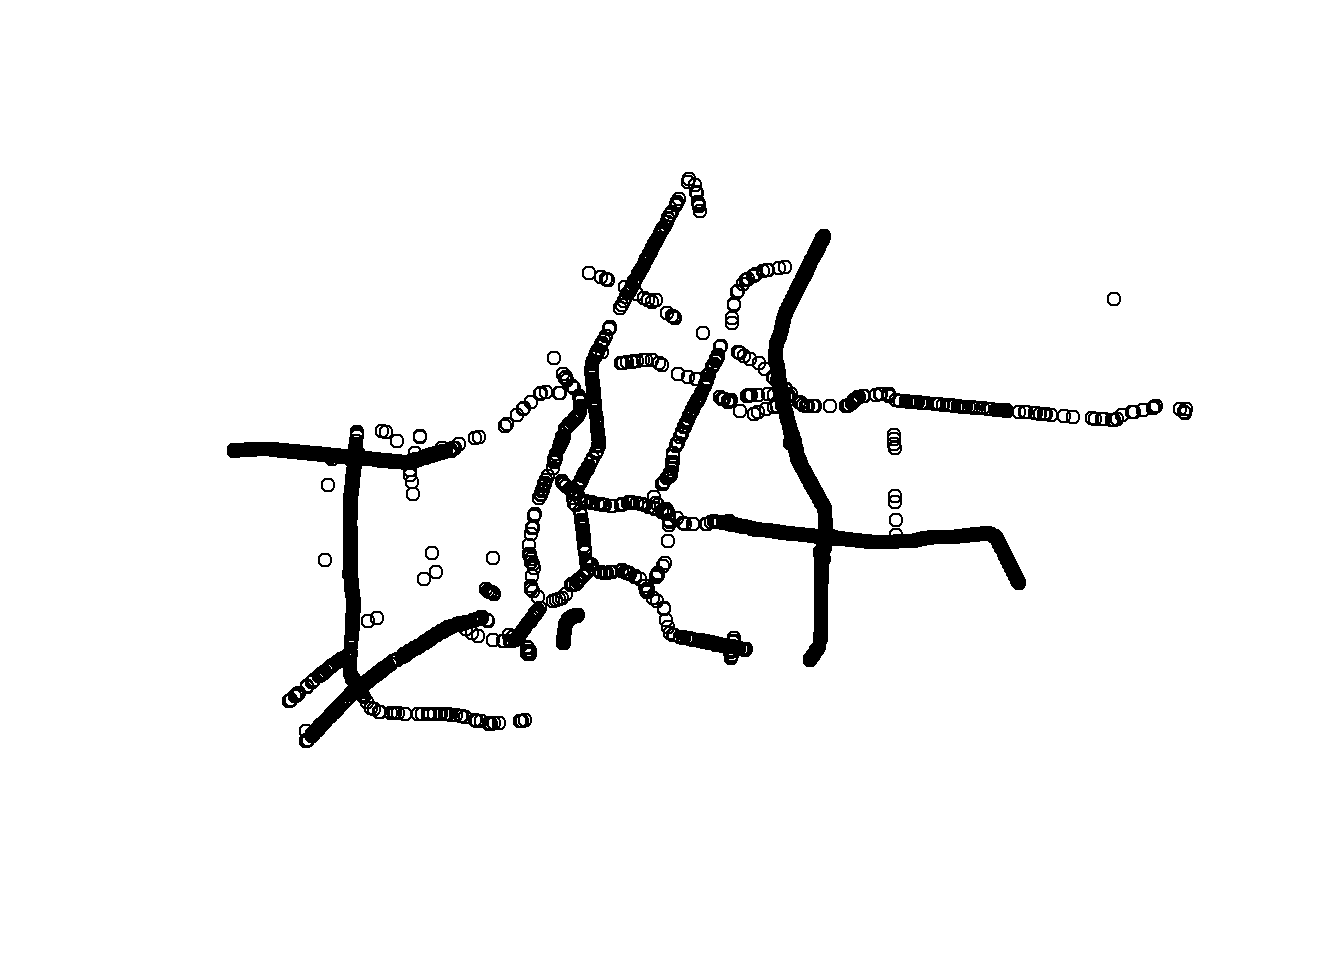
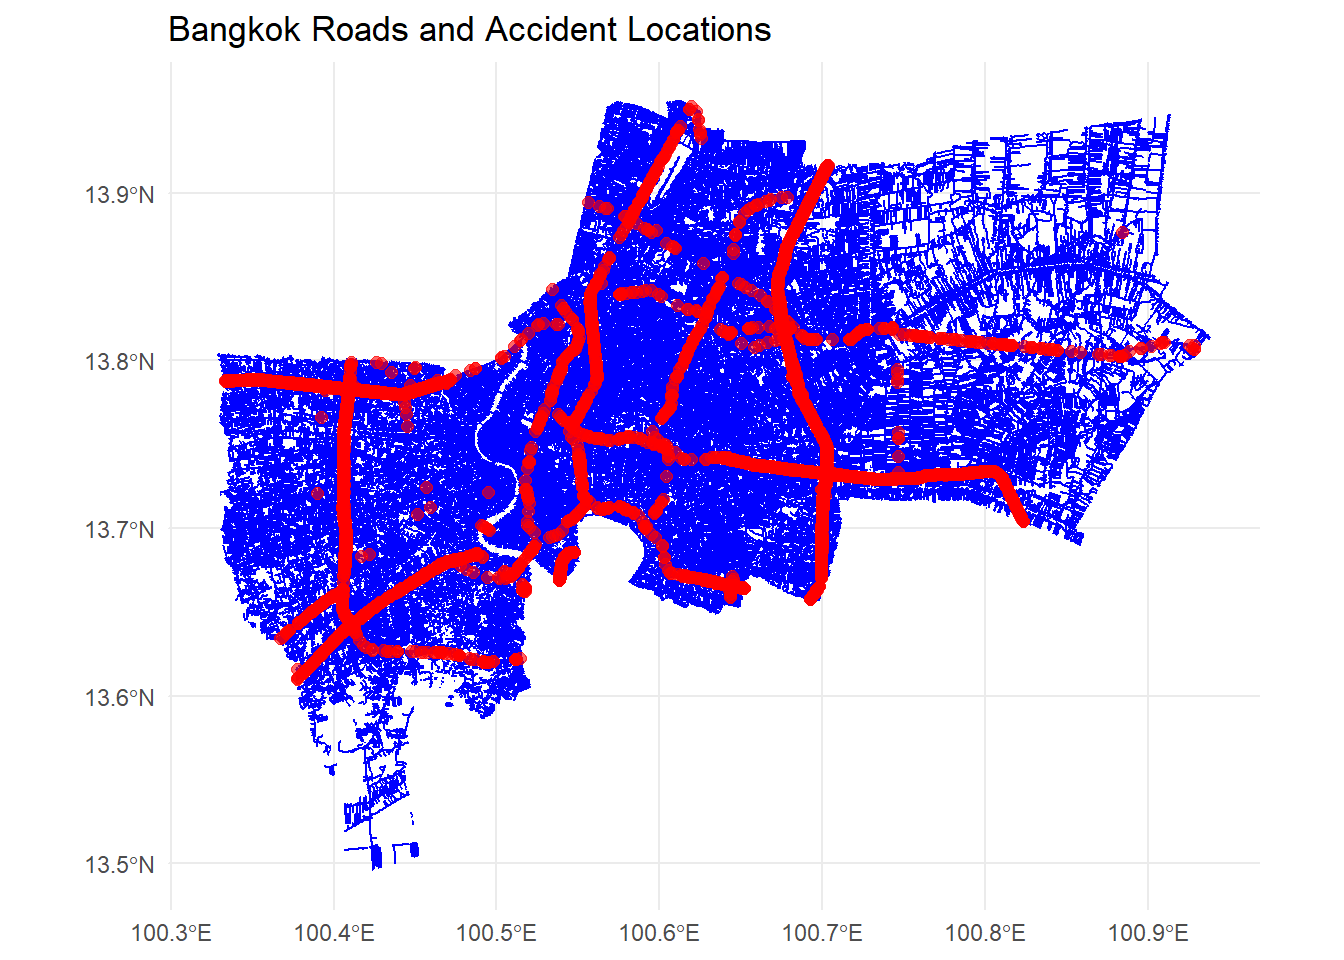
regular commit

diff --git a/_site/Take-Home_Ex/Take-Home_Ex01/Take-Home_Ex01.html b/_site/Take-Home_Ex/Take-Home_Ex01/Take-Home_Ex01.html
@@ -355,85 +355,106 @@ First 10 features:
 </div>
 </div>
 <div class="cell">
-<div class="sourceCode cell-code" id="cb13"><pre class="sourceCode r code-with-copy"><code class="sourceCode r"><span id="cb13-1"><a href="#cb13-1" aria-hidden="true" tabindex="-1"></a><span class="fu">st_crs</span>(thai_one_map)</span></code><button title="Copy to Clipboard" class="code-copy-button"><i class="bi"></i></button></pre></div>
+<div class="sourceCode cell-code" id="cb13"><pre class="sourceCode r code-with-copy"><code class="sourceCode r"><span id="cb13-1"><a href="#cb13-1" aria-hidden="true" tabindex="-1"></a>admin_boundaries <span class="ot">&lt;-</span> <span class="fu">st_read</span>(<span class="at">dsn =</span> <span class="st">"data/rawdata"</span>,</span>
+<span id="cb13-2"><a href="#cb13-2" aria-hidden="true" tabindex="-1"></a>                        <span class="at">layer =</span> <span class="st">"tha_admbnda_adm1_rtsd_20220121"</span>)</span></code><button title="Copy to Clipboard" class="code-copy-button"><i class="bi"></i></button></pre></div>
 <div class="cell-output cell-output-stdout">
-<pre><code>Coordinate Reference System: NA</code></pre>
-</div>
-<div class="sourceCode cell-code" id="cb15"><pre class="sourceCode r code-with-copy"><code class="sourceCode r"><span id="cb15-1"><a href="#cb15-1" aria-hidden="true" tabindex="-1"></a><span class="co"># 设置 CRS 为 WGS 84 (EPSG:4326)</span></span>
-<span id="cb15-2"><a href="#cb15-2" aria-hidden="true" tabindex="-1"></a><span class="fu">st_crs</span>(thai_one_map) <span class="ot">&lt;-</span> <span class="dv">4326</span></span></code><button title="Copy to Clipboard" class="code-copy-button"><i class="bi"></i></button></pre></div>
-</div>
-<div class="cell">
-<div class="sourceCode cell-code" id="cb16"><pre class="sourceCode r code-with-copy"><code class="sourceCode r"><span id="cb16-1"><a href="#cb16-1" aria-hidden="true" tabindex="-1"></a><span class="co"># 将道路数据的 CRS 转换为与事故数据相同的 CRS</span></span>
-<span id="cb16-2"><a href="#cb16-2" aria-hidden="true" tabindex="-1"></a>thai_one_map <span class="ot">&lt;-</span> <span class="fu">st_transform</span>(thai_one_map, <span class="fu">st_crs</span>(bangkok_acc_data))</span>
-<span id="cb16-3"><a href="#cb16-3" aria-hidden="true" tabindex="-1"></a></span>
-<span id="cb16-4"><a href="#cb16-4" aria-hidden="true" tabindex="-1"></a>matched_with_roads <span class="ot">&lt;-</span> <span class="fu">st_join</span>(bangkok_acc_data, thai_one_map, <span class="at">join =</span> st_nearest_feature)</span></code><button title="Copy to Clipboard" class="code-copy-button"><i class="bi"></i></button></pre></div>
-</div>
-<div class="cell">
-<div class="sourceCode cell-code" id="cb17"><pre class="sourceCode r code-with-copy"><code class="sourceCode r"><span id="cb17-1"><a href="#cb17-1" aria-hidden="true" tabindex="-1"></a><span class="fu">head</span>(matched_with_roads)</span></code><button title="Copy to Clipboard" class="code-copy-button"><i class="bi"></i></button></pre></div>
-<div class="cell-output cell-output-stdout">
-<pre><code>Simple feature collection with 6 features and 33 fields
-Geometry type: POINT
-Dimension:     XY
-Bounding box:  xmin: 645371.9 ymin: 1506578 xmax: 684102 ymax: 1525144
-Projected CRS: WGS 84 / UTM zone 47N
-# A tibble: 6 × 34
-  acc_code incident_datetime   report_datetime     province_th  province_en
-     &lt;dbl&gt; &lt;dttm&gt;              &lt;dttm&gt;              &lt;chr&gt;        &lt;chr&gt;      
-1   629691 2019-01-01 03:05:00 2019-01-01 03:05:00 กรุงเทพมหานคร Bangkok    
-2   629689 2019-01-01 05:42:00 2019-01-01 05:42:00 กรุงเทพมหานคร Bangkok    
-3   604307 2019-01-01 10:10:00 2019-03-06 10:49:00 กรุงเทพมหานคร Bangkok    
-4  3793736 2019-01-01 17:30:00 2020-03-11 13:15:00 กรุงเทพมหานคร Bangkok    
-5   599070 2019-01-01 19:20:00 2019-01-01 20:57:00 กรุงเทพมหานคร Bangkok    
-6   613605 2019-01-01 21:40:00 2019-11-18 10:57:00 กรุงเทพมหานคร Bangkok    
-# ℹ 29 more variables: agency &lt;chr&gt;, route &lt;chr&gt;, vehicle_type &lt;chr&gt;,
-#   presumed_cause &lt;chr&gt;, accident_type &lt;chr&gt;,
-#   number_of_vehicles_involved &lt;dbl&gt;, number_of_fatalities &lt;dbl&gt;,
-#   number_of_injuries &lt;dbl&gt;, weather_condition &lt;chr&gt;, road_description &lt;chr&gt;,
-#   slope_description &lt;chr&gt;, Month_num &lt;dbl&gt;, Month_fac &lt;ord&gt;, dayofweek &lt;chr&gt;,
-#   geometry &lt;POINT [m]&gt;, name &lt;chr&gt;, name_en &lt;chr&gt;, highway &lt;chr&gt;,
-#   surface &lt;chr&gt;, smoothness &lt;chr&gt;, width &lt;chr&gt;, lanes &lt;chr&gt;, oneway &lt;chr&gt;, …</code></pre>
-</div>
-</div>
-<div class="cell">
-<div class="sourceCode cell-code" id="cb19"><pre class="sourceCode r code-with-copy"><code class="sourceCode r"><span id="cb19-1"><a href="#cb19-1" aria-hidden="true" tabindex="-1"></a><span class="fu">plot</span>(<span class="fu">st_geometry</span>(matched_with_roads))</span></code><button title="Copy to Clipboard" class="code-copy-button"><i class="bi"></i></button></pre></div>
-<div class="cell-output-display">
-<div>
-<figure class="figure">
-<p><img src="Take-Home_Ex01_files/figure-html/unnamed-chunk-13-1.png" class="img-fluid figure-img" width="672"></p>
-</figure>
-</div>
-</div>
-</div>
-<div class="cell">
-<div class="sourceCode cell-code" id="cb20"><pre class="sourceCode r code-with-copy"><code class="sourceCode r"><span id="cb20-1"><a href="#cb20-1" aria-hidden="true" tabindex="-1"></a>thai_Administrative <span class="ot">&lt;-</span> <span class="fu">st_read</span>(<span class="at">dsn =</span> <span class="st">"data/rawdata"</span>,</span>
-<span id="cb20-2"><a href="#cb20-2" aria-hidden="true" tabindex="-1"></a>                                          <span class="at">layer =</span> <span class="st">"tha_admbnda_adm0_rtsd_20220121"</span>)</span></code><button title="Copy to Clipboard" class="code-copy-button"><i class="bi"></i></button></pre></div>
-<div class="cell-output cell-output-stdout">
-<pre><code>Reading layer `tha_admbnda_adm0_rtsd_20220121' from data source 
+<pre><code>Reading layer `tha_admbnda_adm1_rtsd_20220121' from data source 
   `D:\SMUJunJie\ISSS626-GAA\Take-Home_Ex\Take-Home_Ex01\data\rawdata' 
   using driver `ESRI Shapefile'
-Simple feature collection with 1 feature and 13 fields
+Simple feature collection with 77 features and 16 fields
 Geometry type: MULTIPOLYGON
 Dimension:     XY
 Bounding box:  xmin: 97.34336 ymin: 5.613038 xmax: 105.637 ymax: 20.46507
 Geodetic CRS:  WGS 84</code></pre>
 </div>
-<div class="sourceCode cell-code" id="cb22"><pre class="sourceCode r code-with-copy"><code class="sourceCode r"><span id="cb22-1"><a href="#cb22-1" aria-hidden="true" tabindex="-1"></a>thai_Administrative</span></code><button title="Copy to Clipboard" class="code-copy-button"><i class="bi"></i></button></pre></div>
+</div>
+<div class="cell">
+<div class="sourceCode cell-code" id="cb15"><pre class="sourceCode r code-with-copy"><code class="sourceCode r"><span id="cb15-1"><a href="#cb15-1" aria-hidden="true" tabindex="-1"></a>bangkok_boundary <span class="ot">&lt;-</span> admin_boundaries <span class="sc">%&gt;%</span></span>
+<span id="cb15-2"><a href="#cb15-2" aria-hidden="true" tabindex="-1"></a>  <span class="fu">filter</span>(ADM1_EN <span class="sc">==</span> <span class="st">"Bangkok"</span>)</span></code><button title="Copy to Clipboard" class="code-copy-button"><i class="bi"></i></button></pre></div>
+</div>
+<div class="cell">
+<div class="sourceCode cell-code" id="cb16"><pre class="sourceCode r code-with-copy"><code class="sourceCode r"><span id="cb16-1"><a href="#cb16-1" aria-hidden="true" tabindex="-1"></a><span class="fu">st_crs</span>(thai_one_map)  <span class="co"># 检查道路数据的 CRS</span></span></code><button title="Copy to Clipboard" class="code-copy-button"><i class="bi"></i></button></pre></div>
 <div class="cell-output cell-output-stdout">
-<pre><code>Simple feature collection with 1 feature and 13 fields
-Geometry type: MULTIPOLYGON
-Dimension:     XY
-Bounding box:  xmin: 97.34336 ymin: 5.613038 xmax: 105.637 ymax: 20.46507
-Geodetic CRS:  WGS 84
-  Shape_Leng Shape_Area  ADM0_EN   ADM0_TH ADM0_PCODE ADM0_REF ADM0ALT1EN
-1   106.6359   43.40351 Thailand ประเทศไทย         TH     &lt;NA&gt;       &lt;NA&gt;
-  ADM0ALT2EN ADM0ALT1TH ADM0ALT2TH       date    validOn    validTo
-1       &lt;NA&gt;       &lt;NA&gt;       &lt;NA&gt; 2019-02-18 2022-01-22 -001-11-30
-                        geometry
-1 MULTIPOLYGON (((100.0903 6....</code></pre>
+<pre><code>Coordinate Reference System: NA</code></pre>
+</div>
+<div class="sourceCode cell-code" id="cb18"><pre class="sourceCode r code-with-copy"><code class="sourceCode r"><span id="cb18-1"><a href="#cb18-1" aria-hidden="true" tabindex="-1"></a><span class="fu">st_crs</span>(bangkok_boundary)  <span class="co"># 检查曼谷边界数据的 CRS</span></span></code><button title="Copy to Clipboard" class="code-copy-button"><i class="bi"></i></button></pre></div>
+<div class="cell-output cell-output-stdout">
+<pre><code>Coordinate Reference System:
+  User input: WGS 84 
+  wkt:
+GEOGCRS["WGS 84",
+    DATUM["World Geodetic System 1984",
+        ELLIPSOID["WGS 84",6378137,298.257223563,
+            LENGTHUNIT["metre",1]]],
+    PRIMEM["Greenwich",0,
+        ANGLEUNIT["degree",0.0174532925199433]],
+    CS[ellipsoidal,2],
+        AXIS["latitude",north,
+            ORDER[1],
+            ANGLEUNIT["degree",0.0174532925199433]],
+        AXIS["longitude",east,
+            ORDER[2],
+            ANGLEUNIT["degree",0.0174532925199433]],
+    ID["EPSG",4326]]</code></pre>
 </div>
 </div>
 <div class="cell">
-<div class="sourceCode cell-code" id="cb24"><pre class="sourceCode r code-with-copy"><code class="sourceCode r"><span id="cb24-1"><a href="#cb24-1" aria-hidden="true" tabindex="-1"></a><span class="fu">plot</span>(<span class="fu">st_geometry</span>(bangkok_acc_data))</span></code><button title="Copy to Clipboard" class="code-copy-button"><i class="bi"></i></button></pre></div>
+<div class="sourceCode cell-code" id="cb20"><pre class="sourceCode r code-with-copy"><code class="sourceCode r"><span id="cb20-1"><a href="#cb20-1" aria-hidden="true" tabindex="-1"></a><span class="co"># 将 CRS 转换为 WGS 84 (EPSG:4326)</span></span>
+<span id="cb20-2"><a href="#cb20-2" aria-hidden="true" tabindex="-1"></a><span class="fu">st_crs</span>(thai_one_map) <span class="ot">&lt;-</span> <span class="dv">4326</span></span></code><button title="Copy to Clipboard" class="code-copy-button"><i class="bi"></i></button></pre></div>
+</div>
+<div class="cell">
+<div class="sourceCode cell-code" id="cb21"><pre class="sourceCode r code-with-copy"><code class="sourceCode r"><span id="cb21-1"><a href="#cb21-1" aria-hidden="true" tabindex="-1"></a>bangkok_roads <span class="ot">&lt;-</span> <span class="fu">st_intersection</span>(thai_one_map, bangkok_boundary)</span>
+<span id="cb21-2"><a href="#cb21-2" aria-hidden="true" tabindex="-1"></a><span class="fu">head</span>(bangkok_roads)</span></code><button title="Copy to Clipboard" class="code-copy-button"><i class="bi"></i></button></pre></div>
+<div class="cell-output cell-output-stdout">
+<pre><code>Simple feature collection with 6 features and 30 fields
+Geometry type: LINESTRING
+Dimension:     XY
+Bounding box:  xmin: 100.7831 ymin: 13.73046 xmax: 100.7936 ymax: 13.74666
+Geodetic CRS:  WGS 84
+            name               name_en        highway  surface smoothness width
+1     ถนนฉลองกรุง    Chalong Krung Road      secondary    paved       &lt;NA&gt;  &lt;NA&gt;
+2 ซอยฉลองกรุง 1/1 Soi Chalong Krung 1/1    residential     &lt;NA&gt;       &lt;NA&gt;  &lt;NA&gt;
+3           &lt;NA&gt;                  &lt;NA&gt; secondary_link     &lt;NA&gt;       &lt;NA&gt;  &lt;NA&gt;
+4           &lt;NA&gt;                  &lt;NA&gt;        service     &lt;NA&gt;       &lt;NA&gt;  &lt;NA&gt;
+5     ถนนฉลองกรุง    Chalong Krung Road      secondary concrete       &lt;NA&gt;  &lt;NA&gt;
+6           &lt;NA&gt;                  &lt;NA&gt;        service     &lt;NA&gt;       &lt;NA&gt;  &lt;NA&gt;
+  lanes oneway bridge layer source        name_th     osm_id  osm_type
+1  &lt;NA&gt;    yes   &lt;NA&gt;  &lt;NA&gt;   &lt;NA&gt;     ถนนฉลองกรุง 1125681229 ways_line
+2  &lt;NA&gt;   &lt;NA&gt;   &lt;NA&gt;  &lt;NA&gt;   &lt;NA&gt; ซอยฉลองกรุง 1/1  594401607 ways_line
+3  &lt;NA&gt;    yes   &lt;NA&gt;  &lt;NA&gt;   &lt;NA&gt;           &lt;NA&gt;  472283206 ways_line
+4  &lt;NA&gt;   &lt;NA&gt;   &lt;NA&gt;  &lt;NA&gt;   &lt;NA&gt;           &lt;NA&gt;  594401608 ways_line
+5     2    yes    yes     1   Bing     ถนนฉลองกรุง  116847248 ways_line
+6  &lt;NA&gt;   &lt;NA&gt;   &lt;NA&gt;  &lt;NA&gt;   &lt;NA&gt;           &lt;NA&gt;  317485095 ways_line
+  Shape_Leng Shape_Area ADM1_EN      ADM1_TH ADM1_PCODE ADM1_REF ADM1ALT1EN
+1   2.417227  0.1313387 Bangkok กรุงเทพมหานคร       TH10     &lt;NA&gt;       &lt;NA&gt;
+2   2.417227  0.1313387 Bangkok กรุงเทพมหานคร       TH10     &lt;NA&gt;       &lt;NA&gt;
+3   2.417227  0.1313387 Bangkok กรุงเทพมหานคร       TH10     &lt;NA&gt;       &lt;NA&gt;
+4   2.417227  0.1313387 Bangkok กรุงเทพมหานคร       TH10     &lt;NA&gt;       &lt;NA&gt;
+5   2.417227  0.1313387 Bangkok กรุงเทพมหานคร       TH10     &lt;NA&gt;       &lt;NA&gt;
+6   2.417227  0.1313387 Bangkok กรุงเทพมหานคร       TH10     &lt;NA&gt;       &lt;NA&gt;
+  ADM1ALT2EN ADM1ALT1TH ADM1ALT2TH  ADM0_EN   ADM0_TH ADM0_PCODE       date
+1       &lt;NA&gt;       &lt;NA&gt;       &lt;NA&gt; Thailand ประเทศไทย         TH 2019-02-18
+2       &lt;NA&gt;       &lt;NA&gt;       &lt;NA&gt; Thailand ประเทศไทย         TH 2019-02-18
+3       &lt;NA&gt;       &lt;NA&gt;       &lt;NA&gt; Thailand ประเทศไทย         TH 2019-02-18
+4       &lt;NA&gt;       &lt;NA&gt;       &lt;NA&gt; Thailand ประเทศไทย         TH 2019-02-18
+5       &lt;NA&gt;       &lt;NA&gt;       &lt;NA&gt; Thailand ประเทศไทย         TH 2019-02-18
+6       &lt;NA&gt;       &lt;NA&gt;       &lt;NA&gt; Thailand ประเทศไทย         TH 2019-02-18
+     validOn    validTo                       geometry
+1 2022-01-22 -001-11-30 LINESTRING (100.7913 13.740...
+2 2022-01-22 -001-11-30 LINESTRING (100.7882 13.736...
+3 2022-01-22 -001-11-30 LINESTRING (100.7844 13.732...
+4 2022-01-22 -001-11-30 LINESTRING (100.7873 13.735...
+5 2022-01-22 -001-11-30 LINESTRING (100.7831 13.730...
+6 2022-01-22 -001-11-30 LINESTRING (100.7931 13.746...</code></pre>
+</div>
+</div>
+<div class="cell">
+<div class="sourceCode cell-code" id="cb23"><pre class="sourceCode r code-with-copy"><code class="sourceCode r"><span id="cb23-1"><a href="#cb23-1" aria-hidden="true" tabindex="-1"></a><span class="co"># 绘制曼谷道路和事故数据</span></span>
+<span id="cb23-2"><a href="#cb23-2" aria-hidden="true" tabindex="-1"></a><span class="fu">ggplot</span>() <span class="sc">+</span></span>
+<span id="cb23-3"><a href="#cb23-3" aria-hidden="true" tabindex="-1"></a>  <span class="fu">geom_sf</span>(<span class="at">data =</span> bangkok_roads, <span class="at">color =</span> <span class="st">"blue"</span>, <span class="at">size =</span> <span class="fl">0.5</span>) <span class="sc">+</span>  <span class="co"># 曼谷的道路数据</span></span>
+<span id="cb23-4"><a href="#cb23-4" aria-hidden="true" tabindex="-1"></a>  <span class="fu">geom_sf</span>(<span class="at">data =</span> bangkok_acc_data, <span class="at">color =</span> <span class="st">"red"</span>, <span class="at">size =</span> <span class="dv">2</span>, <span class="at">alpha =</span> <span class="fl">0.6</span>) <span class="sc">+</span>  <span class="co"># 曼谷的事故点数据</span></span>
+<span id="cb23-5"><a href="#cb23-5" aria-hidden="true" tabindex="-1"></a>  <span class="fu">labs</span>(<span class="at">title =</span> <span class="st">"Bangkok Roads and Accident Locations"</span>) <span class="sc">+</span></span>
+<span id="cb23-6"><a href="#cb23-6" aria-hidden="true" tabindex="-1"></a>  <span class="fu">theme_minimal</span>()</span></code><button title="Copy to Clipboard" class="code-copy-button"><i class="bi"></i></button></pre></div>
 <div class="cell-output-display">
 <div>
 <figure class="figure">
